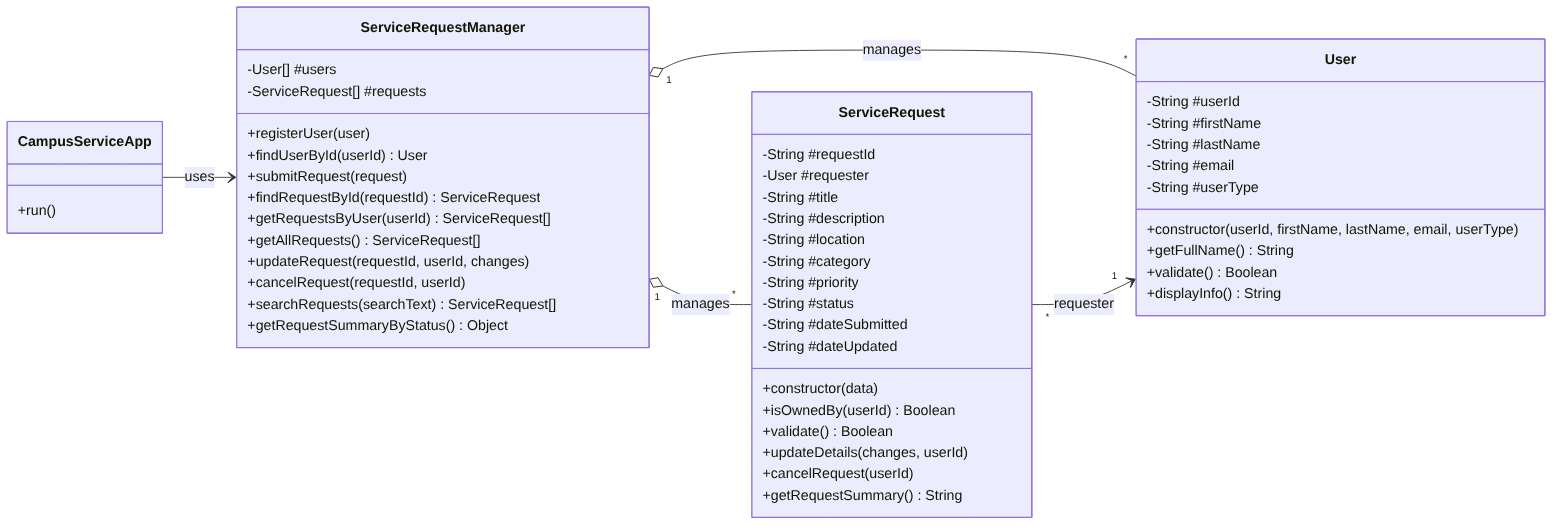
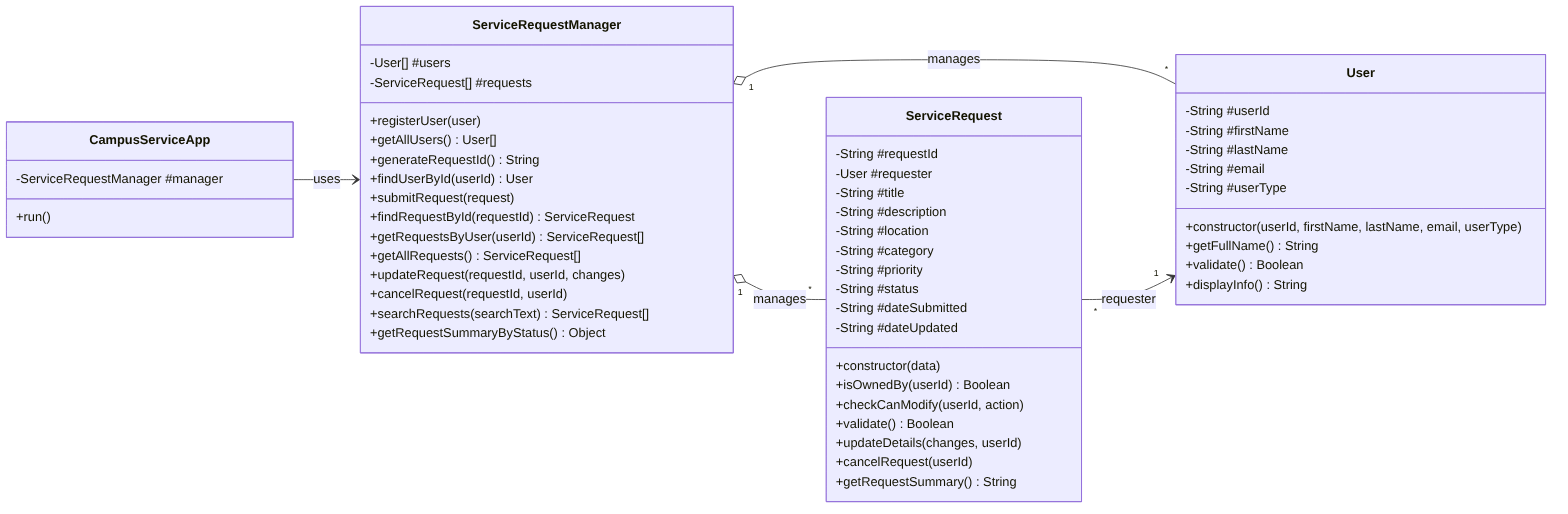
Complete Pass checkpoint: update README, class diagram and screenshots

diff --git a/AT3_CampusServiceRequestSystem/README.md b/AT3_CampusServiceRequestSystem/README.md
@@ -9,27 +9,84 @@
 
 A Node.js console application that records, assigns, processes and monitors campus service requests (ICT Support, Facilities Maintenance, Cleaning and Sanitation, General Campus Service) at Divine Word University. No database is used.
 
-## Progress
+## Achievement Components Attempted
 
-- [x] Project setup and `User` class (private fields, getters, controlled setters)
-- [x] Requirements document (`docs/requirements/Requirements.md`)
-- [x] Initial UML: use case, class diagram, submit-request sequence (`docs/uml/`)
-- [x] `ServiceRequest` class (private fields, controlled updates and cancellation)
-- [ ] `ServiceRequestManager`
-- [ ] Console menu (`CampusServiceApp.js`)
+- [x] **Pass** – core service request system *(complete)*
+- [ ] **Credit** – specialised requests and role workflows
+- [ ] **Distinction** – polymorphism, JSON storage and reporting
 
-## Requirements
+## Features Completed (Pass)
 
-- Node.js 20 or later (`node -v`)
+- Register users with validation (missing ID/names, invalid email, duplicate ID rejected)
+- Submit service requests in four categories with four priority levels (new requests start as *Submitted*)
+- View a request by ID, view my requests, view all requests
+- Update my own *Submitted* request (other users are blocked)
+- Cancel my own *Submitted* request (other users and double-cancellation are blocked)
+- Search requests by request ID or title
+- Request summary by status
+- Clear error messages; invalid input never crashes the menu
 
-## Commands
+## Project Folder Structure
+
+```text
+AT3_CampusServiceRequestSystem/
+├── src/
+│   ├── CampusServiceApp.js          # Console menu (input/output only)
+│   ├── constants.js                 # Allowed categories, priorities, statuses, user types
+│   ├── managers/
+│   │   └── ServiceRequestManager.js # Stores users and requests in arrays; search and summaries
+│   └── models/
+│       ├── User.js                  # User class (private fields, validation)
+│       └── ServiceRequest.js        # ServiceRequest class (private fields, update/cancel rules)
+├── tests/                           # Automated tests (node:test)
+├── docs/
+│   ├── requirements/                # Requirements document
+│   └── uml/                         # Use case, class and sequence diagrams
+├── package.json
+└── README.md
+```
+
+## Installation
+
+1. Install **Node.js 20 or later** (check with `node -v`).
+2. Clone the repository and open the project folder:
 
 ```bash
+git clone https://github.com/PhileKIRA/IS305-DWU220538.git
+cd IS305-DWU220538/AT3_CampusServiceRequestSystem
 npm install
+```
+
+No third-party packages are used; `npm install` only prepares the project.
+
+## Running the Application
+
+```bash
+node src/CampusServiceApp.js
+```
+
+or `npm start`.
+
+## Running the Tests
+
+```bash
 npm test
 ```
 
-`node src/CampusServiceApp.js` will start the application once the console menu is added.
+## Sample User Scenario (Pass)
+
+1. Option **1** – register `DWU2026001`, Mary Kila, `mary.kila@dwu.ac.pg`, Student.
+2. Option **2** – as `DWU2026001`, submit "Wi-Fi not working", Library Level 2, ICT Support, High → `REQ001` (Submitted).
+3. Option **6** – try to update `REQ001` as another user → *Error: Only the requester can update this request.*
+4. Option **6** – update `REQ001` as `DWU2026001` → title changed.
+5. Option **8** – search `wi-fi` → `REQ001` found.
+6. Option **7** – cancel `REQ001` as `DWU2026001` → status *Cancelled*. Cancelling again → *Error: This request is already cancelled.*
+7. Option **9** – summary shows Submitted 0, Cancelled 1.
+
+## Known Limitations (current stage)
+
+- Data is kept in memory only and is lost when the program closes (JSON storage is added in the Distinction stage).
+- No passwords: users identify themselves by user ID.
 
 ## AI Use Declaration
 
